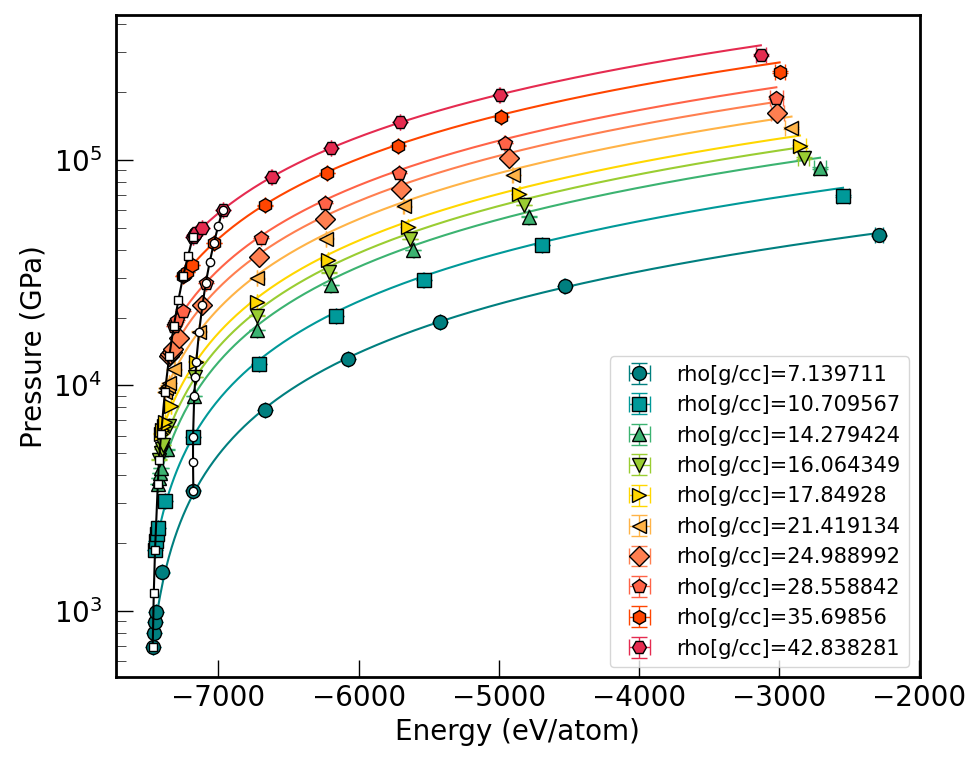
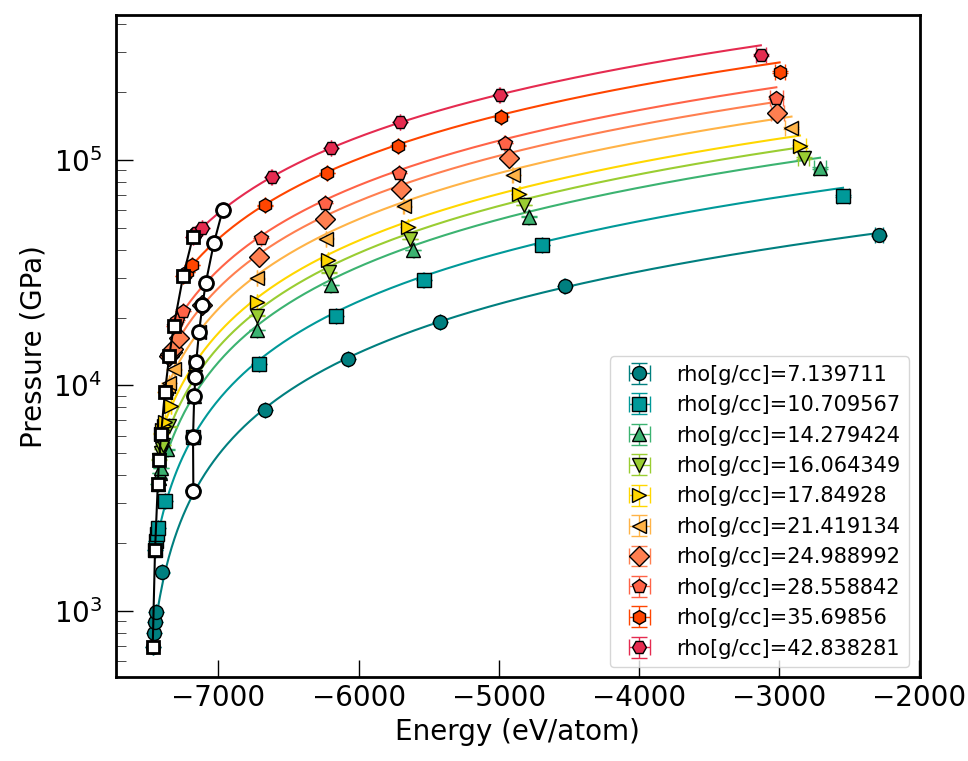
P vs T

diff --git a/analyze_slopes_EOS.py b/analyze_slopes_EOS.py
@@ -313,9 +313,63 @@ print (MyEOS.Volume(474.91586697361384,7800))
 print (MyEOS.GruneisenParameter(14))
 exit()
 """
-
-#=====================================  END OF FUNCTIONS =============================================================================#
+#=====================================  END OF EOS CLASS =============================================================================#
 #=====================================================================================================================================#
+
+
+
+# =============================================================================
+#    FITTED GRUNEISEN PARAMETER TO MgO EOS
+# =============================================================================
+# I basically took Pth/Eth at all the different volumes I had to get the difference between the T0=20000 K isotherm
+# and the isotherm at temperature T. This function (Pth/Eth)(V) is fitted as a function of density for each temperature independently.
+# Thus, (Pth/Eth)(V,T) =  gamma(V,T)/V   =  a(T)*m + b(T)*V 
+Ts = sorted ( list(EOS.keys()) )
+_AB_TABLE = {
+20000 : ( 0.015515680845572965 ,  0.02333629418195489 ),
+30000 : ( 0.015515680845572965 ,  0.02333629418195489 ),
+40000 : ( 0.014695058509524236 ,  0.02539026297966505 ),
+50000 : ( 0.015067383613662872 ,  0.02150298839421195 ),
+100000 : ( 0.01632153142023388 ,  0.006234936676929329 ),
+250000 : ( 0.01722076639526805 ,  -0.017627837966963534 ),
+500000 : ( 0.01730907132504885 ,  -0.02477565944003577 ),
+750000 : ( 0.017345530419509893 ,  -0.025699540449872004 ),
+1010479 : ( 0.017352478837787327 ,  -0.025106829073152766 ),
+1347305 : ( 0.017062557670449185 ,  -0.022392888009936416 ),
+2020958 : ( 0.015141732805558788 ,  -0.013075350474981698 ),
+4041916 : ( 0.01460150286357319 ,  -0.010775456950342786 ),
+8083831 : ( 0.014244632671272846 ,  -0.0066469114393760634 ),
+16167663 : ( 0.01483232489553656 ,  -0.0020825905047453346 ),
+32335325 : ( 0.015557203206506548 ,  -0.0007479104213895064 ),
+64670651 : ( 0.016012379831085586 ,  -0.00030457523673943433 ),
+129341301 : ( 0.01626503500340532 ,  -0.0001268247842934055 ),
+258682602 : ( 0.016398987749328083 ,  -5.159096364469834e-05 ),
+517365204 : ( 0.01646872235894715 ,  -2.2023244165113643e-05 )
+}
+
+
+
+mass = EOS[Ts[0]]['mass']  # in  (g/cc) *A^3
+def Gamma_Fit(V,T):
+ # ensure we use integer keys consistently
+ Tkey = int(T)
+ try:
+     a, b = _AB_TABLE[Tkey]
+ except KeyError as exc:
+     raise KeyError(f"Temperature {T} not found in table. "
+                    f"Available temperatures: {sorted(_AB_TABLE.keys())}") from exc
+
+ V_arr = np.asarray(V)
+ result = a*(mass*from_gccA3_to_amu)  + b * V_arr
+ # return scalar if input was scalar
+ return result.item() if np.isscalar(V) else result
+
+#T0=30000
+#V0=EOS[T0]['V'][-1]
+#print("GAMMA FIT at V0=", V0," and 20000K is", Gamma_Fit(V0,T0 ))
+
+
+
 
 
 # =============================================================================
@@ -331,19 +385,74 @@ rho0, T0 = 7.139711, 20000
 
 Ts = sorted ( list(EOS.keys()) )
 
-def P_vs_E(rho0):
+def P_vs_E(rho0=15):
  fig = figure('P_vs_E')
  ax = subplot(111)
  
- e = [ MyEOS.Energy(rho0,T)  for T in Ts ]
- P = [ MyEOS.Press(rho0,T)   for T in Ts ]
- ax.plot(e,P, 'o-', mec='k')
+ #e = [ MyEOS.Energy(rho0,T)  for T in Ts ]
+ #P = [ MyEOS.Press(rho0,T)   for T in Ts ]
+
+ T0 = 20000
+ #rho0 = 15
+ #rhos = EOS[T0][-1][2]    # EOS[T0] =  (N,v,r,t,p,e, perr, err)
+ rhos = EOS[T0]['rho']
+ V0s  = EOS[T0]['V']
+ rhos = delete(rhos,[1,9,11])  # Not all rhos at 20000 K get to PIMC temperatures
+ V0s = delete(V0s,[1,9,11])  # Not all rhos at 20000 K get to PIMC temperatures
+ energies = []
+ energiesE= []
+ pressures = []
+ pressuresE= []
+ temperatures = []
+ rhos=EOS[T0]['rho']
+ for j,rho0 in enumerate(rhos[:2]): #rhos_f[::2]:
+  energies = []
+  energiesE= []
+  pressures = []
+  pressuresE= []
+  temperatures = []
+  for ti in Ts[0:11]:
+   #V0 = mass/rho0
+   print("ACA PA rho0=",rho0,"ti=",ti)
+   V0 = V0s[j]
+   Ps =  EOS[ti]['P']
+   PsE=  EOS[ti]['Perr']
+   Es =  EOS[ti]['E']
+   EsE=  EOS[ti]['Eerr']
+   Vs =  EOS[ti]['V']
+   t0 =  EOS[ti]['T']
+   P0 = Ps[  Vs==V0 ][0]  # just one value: P(rho0,ti) 
+   P0E= PsE[ Vs==V0 ][0]  # just one value: P(rho0,ti) 
+   E0 = Es[  Vs==V0 ][0]  # just one value: P(rho0,ti) 
+   E0E= EsE[ Vs==V0 ][0]  # just one value: P(rho0,ti) 
+   energies  += [ E0 ]
+   energiesE += [ E0E]
+   pressures += [ P0 ]
+   pressuresE+= [ P0E]
+   temperatures += [ t0 ]
+
+
+
+ print("LISTA P:",pressures)
+ print("LISTA E:",energies)
+ print("LISTA T:",temperatures)
+
  
  # Fitting P(e) with linear fit
- linear_fit = lambda x, a,b: a*x+b
- popt, pcov = curve_fit(linear_fit, e,P)
- ee = linspace(min(e),max(e),100)
- ax.plot(ee, linear_fit(ee, *popt))
+ #linear_fit = lambda x, a,b: a*x+b
+ #popt, pcov = curve_fit(linear_fit, e,P)
+ #ee = linspace(min(e),max(e),100)
+ #ax.plot(ee, linear_fit(ee, *popt))
+ 
+ #print("rho0=", rho0, "Gamma/V[1/A^3]=", popt[0]*0.0062415091 )
+ #print("rho0=", rho0, "Gamma=", popt[0]*0.0062415091 * one_iron_u_angstrom3_gcc/rho0)
+ ax.plot(energies,pressures, 'o-', mec='k')
+ 
+ # Fitting P(e) with linear fit
+ #linear_fit = lambda x, a,b: a*x+b
+ #popt, pcov = curve_fit(linear_fit, e,P)
+ #ee = linspace(min(e),max(e),100)
+ #ax.plot(ee, linear_fit(ee, *popt))
  
  #print("rho0=", rho0, "Gamma/V[1/A^3]=", popt[0]*0.0062415091 )
  #print("rho0=", rho0, "Gamma=", popt[0]*0.0062415091 * one_iron_u_angstrom3_gcc/rho0)
@@ -360,6 +469,7 @@ def P_vs_E(rho0):
  # Pmax = MyEOS.Press( max(EOS[min(Ts)][-1][2]) , min(Ts) ) 
  # Pmin = MyEOS.Press( min(EOS[min(Ts)][-1][2]) , min(Ts) ) 
  # print( "rho[g/cc]= %8.4f   V[A3/atom]= %8.4f   Pmin[GPa]= %8.4f  Pmax[GPa]= %8.4f   gamma/V[1/A3]= %8.4f   gamma= %8.4f"  % (rhoi, V, Pmin, Pmax, gamma/V, gamma)  )
+ ax.set_yscale('log')
 
 
 
@@ -487,7 +597,7 @@ def Pth_over_Eth_vs_density():
  #rhos = linspace(15,17, 5)
  #rhos = EOS[T0][-1][2]    # EOS[T0] =  (N,v,r,t,p,e, perr, err)
  rhos = EOS[T0]['rho']
- Temp_list = Ts[1::2]
+ Temp_list = Ts[1::]
  num_curves=len(Temp_list)
  #col = cm.viridis(np.linspace(0.0, 1.0, num_curves))
  #v0   = EOS[T0][-1][1][0]
@@ -550,7 +660,9 @@ def Pth_over_Eth_vs_density():
  
  
   #print("# T[K]=",T1)
-  print("T1[K]= %9.0f  slope(Pth/Eth)_vs_rho[1/amu]= %8.4f  intercept[1/A3]= %8.4f"  % (T1, slope, intercept ) )
+  #print("T1[K]= %9.0f  slope(Pth/Eth)_vs_rho[1/amu]= %8.4f  intercept[1/A3]= %8.4f"  % (T1, slope, intercept ) )
+  print(int(T1), ": (", slope, ", ", intercept, ")," )
+
   #for j in range(len(rhos_f)):
   # gamma = dPdU_V[j] * (mass/rhos_f[j])
   # print("T1[K]= %8.0f  rho[g/cc]= %8.4f   slope(Pth/Eth)_vs_rho[1/amu]= %8.4f  gamma/V[1/A^3]= %8.4f    gamma= %8.4f"  % (T1, rhos_f[j], slope, dPdU_V[j] , gamma) )
@@ -666,8 +778,19 @@ def P_vs_P_MG():
  
  #ax6.plot(energies, pressures, 'o-', label='Original data at rho[g/cc]='+str(rho0) )
  #ax6.plot(ee, (0.30 * 160.21766 )*(ee - e0)+p0  , '-' , label='Mie Gruneisen')
- ax6.plot( EOS[T0]['E'], EOS[T0]['P'], 'ks-', mfc='w', mec='k',mew=1, ms=6 , zorder=10)
- ax6.plot( EOS[250000]['E'], EOS[250000]['P'], 'ko-', mfc='w', mec='k',mew=1, ms=6 , zorder=10)
+ T0 = 20000; T1=250000
+ E = EOS[T0]['E']
+ P = EOS[T0]['P']
+ E1= EOS[T1]['E']
+ P1= EOS[T1]['P']
+ E = delete(E,[1,9,11])  # Not all rhos at 20000 K get to PIMC temperatures
+ P = delete(P,[1,9,11])  # Not all rhos at 20000 K get to PIMC temperatures
+ E1= delete(E1,[1,9,11])  # Not all rhos at 20000 K get to PIMC temperatures
+ P1= delete(P1,[1,9,11])  # Not all rhos at 20000 K get to PIMC temperatures
+
+
+ ax6.plot( E, P, 'ks-', mfc='w', mec='k',mew=2, ms= 8, zorder=10)
+ ax6.plot(E1,P1, 'ko-', mfc='w', mec='k',mew=2, ms=10, zorder=10)
  #savefig('P_vs_E_comparison_v1.png')
  #savefig('P_vs_E_comparison_v2.png')
  #ax6.plot(energies, pressures, 'o-', label='Original data at rho[g/cc]='+str(rho0) )
@@ -683,10 +806,134 @@ def P_vs_P_MG():
  #savefig('P_vs_E_comparison_v3.png')
 
 
+
+
+
+
+# =============================================================================
+#    P(E) -  P_MieGruneisen(E) 
+# =============================================================================
+def P_vs_T():
+ fig_size = [700/72.27 ,750/72.27]
+ params = { 'figure.figsize': fig_size , 'figure.subplot.left': 0.150}
+ rcParams.update(params)
+ 
+ fig = figure('P_vs_E')
+ ax = subplot(211)
+ ax2= subplot(212)
+ markers = [ 'o', 's', '^', 'v', '>', '<', 'D', 'p', 'h', 'H', 'X', '*', 'P', 'd', '|'] 
+ colors = [
+     "#007F7F",  # teal
+     "#009999",  # cyan-green
+     "#3CB371",  # medium sea green
+     "#9ACD32",  # yellow-green
+     "#FFD700",  # gold
+     "#FFB347",  # light orange
+     "#FF7F50",  # coral
+     "#FF6347",  # tomato
+     "#FF4500",  # orange-red
+     "#E52B50",  # amaranth
+     "#B22222",  # firebrick
+     "#800000",  # maroon
+     "#5A0000",  # deep red-brown
+     "#3B0000",  # darker red
+     "#200000",  # near black-red
+ ]
+
+
+ 
+ #e = [ MyEOS.Energy(rho0,T)  for T in Ts ]
+ #P = [ MyEOS.Press(rho0,T)   for T in Ts ]
+
+ T0 = 20000
+ rhos = EOS[T0]['rho']
+ V0s  = EOS[T0]['V']
+ rhos = delete(rhos,[1,9,11])  # Not all rhos at 20000 K get to PIMC temperatures
+ V0s = delete(V0s,[1,9,11])  # Not all rhos at 20000 K get to PIMC temperatures
+ for j,rho0 in enumerate(rhos[:6]): #rhos_f[::2]:
+  energies = []
+  energiesE= []
+  pressures = []
+  pressuresE= []
+  temperatures = []
+  for ti in Ts[:11]:
+   #V0 = mass/rho0
+   V0 = V0s[j]
+   Ps =  EOS[ti]['P']
+   PsE=  EOS[ti]['Perr']
+   Es =  EOS[ti]['E']
+   EsE=  EOS[ti]['Eerr']
+   Vs =  EOS[ti]['V']
+   t0 =  EOS[ti]['T']
+   P0 = Ps[  Vs==V0 ][0]  # just one value: P(rho0,ti) 
+   P0E= PsE[ Vs==V0 ][0]  # just one value: P(rho0,ti) 
+   E0 = Es[  Vs==V0 ][0]  # just one value: P(rho0,ti) 
+   E0E= EsE[ Vs==V0 ][0]  # just one value: P(rho0,ti) 
+   energies  += [ E0 ]
+   energiesE += [ E0E]
+   pressures += [ P0 ]
+   pressuresE+= [ P0E]
+   temperatures += [ t0 ]
+  Eshift = 0*10000
+  energies = array(energies) + Eshift
+  temperatures =array(temperatures)
+  #p1, = ax.plot(energies,pressures, 'o', mec='k')
+  #ax.errorbar(energies,pressures,yerr=pressuresE, fmt='', capsize=6)
+  rho_leg = f"rho[g/cc]={rho0:.2f}"
+  p1, = ax.plot(temperatures,pressures, markers[j], mec='k', color=colors[j], ms=14, label=rho_leg )
+  c = p1.get_color()
+
+
+  a= 0.0172   # in 1/amu
+  b= -0.0176  # in 1/A^3
+  mass = EOS[T0]['mass']
+  gamma_fit = lambda V:  a*mass*from_gccA3_to_amu + b*V
+  V0 = V0s[ rhos==rho0 ][0]
+  gamma0 = gamma_fit(V0)
+  ee = linspace(min(energies),max(energies),10000)
+  all_rhosT0 =  EOS[T0]['rho']==rho0
+  E0 = EOS[T0]['E'][ all_rhosT0 ][0] + Eshift
+  P0 = EOS[T0]['P'][ all_rhosT0 ][0]  
+  linear_fit = lambda e: P0 + (gamma0/V0) *160.21766 *(e - E0)
+  doubly_linear_fit = lambda e,T:  P0 + (Gamma_Fit(V0,T)/V0) *160.21766 *(e - E0)
+  
+  Pth_MG = []
+  for i in range(len(energies)):
+    Pth_MG += [ doubly_linear_fit(energies[i], temperatures[i]) ]
+  Pth_MG=array(Pth_MG)
+  #ax.plot(ee, linear_fit(ee), '-' , color=c  )
+  ax.plot(temperatures, linear_fit(energies), '-' ,dashes=[10,1,1,1], color=c ,zorder=-j )
+  ax.plot(temperatures, Pth_MG, 'k-' ,lw=2, color=c ,zorder=-j )
+  
+  #ax2.plot(energies, pressures - linear_fit(energies) , 'o-', ms= 6 )
+  #ax2.errorbar(energies, pressures - linear_fit(energies), yerr=pressuresE , fmt='', capsize=6  )
+  ax2.errorbar(temperatures, pressures - linear_fit(energies), yerr=pressuresE , fmt='-',mfc='w', mec=c, marker=markers[j], color=colors[j], dashes=[10,1,1,1], ms=10,lw=2, capsize=6, alpha=0.5  )
+  ax2.errorbar(temperatures, pressures - Pth_MG, yerr=pressuresE , fmt='-',mec='k', marker=markers[j], color=colors[j], ms=14,lw=2, capsize=6  )
+ ax2.plot(temperatures, 0*temperatures, 'k--')
+
+ ax.set_yscale('log')
+ ax.set_xscale('log')
+ ax2.set_xscale('log')
+ ax2.set_ylim(-900,550)
+ ax.legend(loc=4, fontsize=12)
+ setp(ax.get_xticklabels(),visible=False)
+ subplots_adjust(hspace=0)
+
+ ax.set_ylabel(r'Pressure (GPa)') 
+ ax2.set_ylabel(r'$\Delta P$ (GPa)') 
+ ax2.set_xlabel(r'Temperature (K)') 
+ 
+ #savefig('P_vs_T_MG_v1.png')
+
+
+
+
 #P_vs_V(T0=20000)
 #Pth_over_Eth_vs_density()
-#P_vs_E(rho0=15)
-P_vs_P_MG()
+#P_vs_E(rho0=rho0)
+#P_vs_P_MG()
+#P_vs_E()
+P_vs_T()
 
 
 show()
